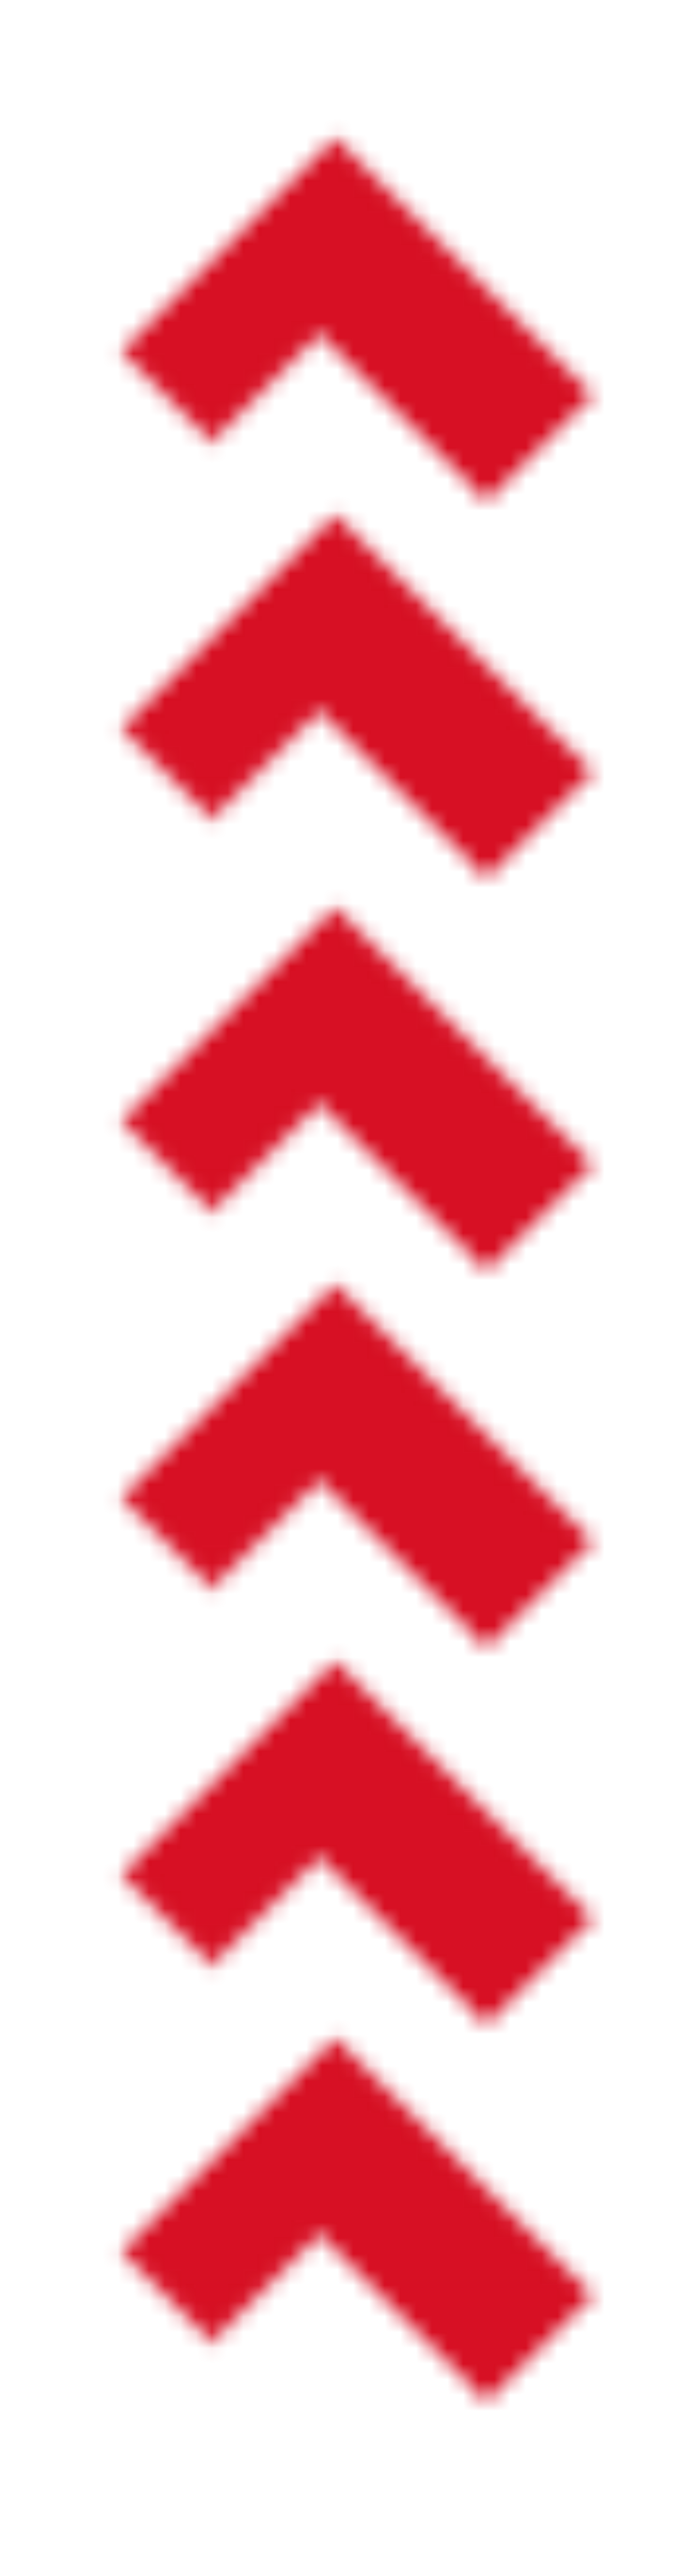
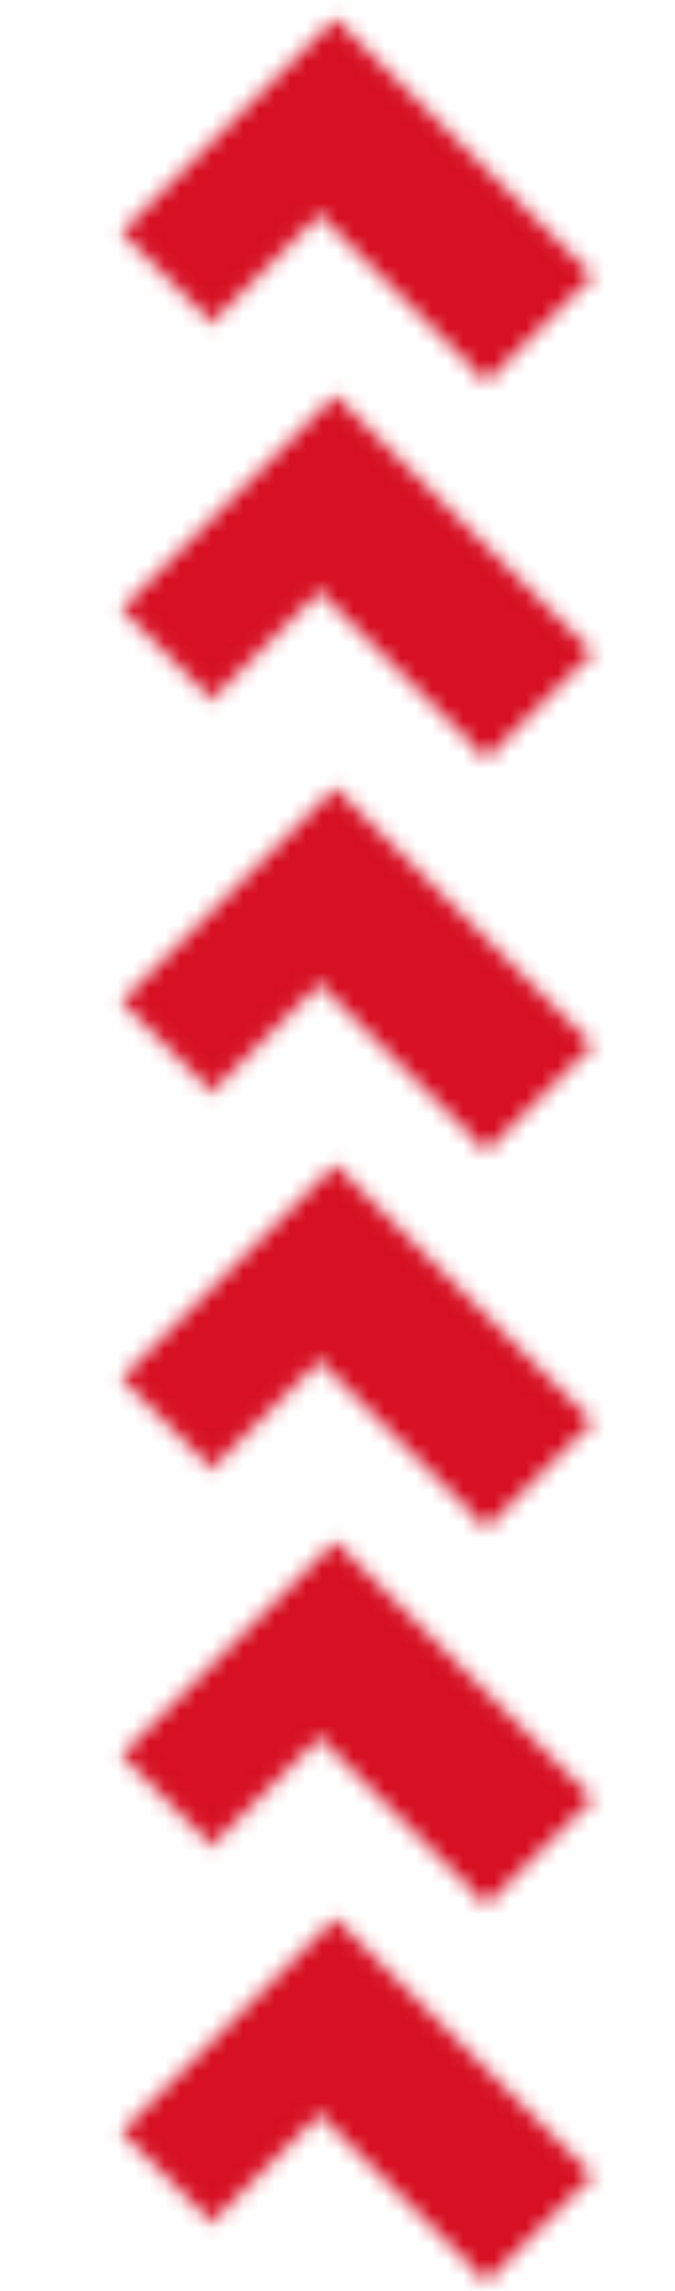
Actualizacion del Codigo agregando SUIT CSS y ajustando secciones

diff --git a/css/style.css b/css/style.css
@@ -1,67 +1,122 @@
 @import url('https://fonts.googleapis.com/css2?family=Montserrat:ital,wght@0,100..900;1,100..900&display=swap');
 @import url('https://fonts.googleapis.com/css2?family=Fira+Mono:wght@400;500;700&display=swap');
+:root{
+    --color-grisOscuro:#2E2D2D;
+    --color-negro:#000;
+    --color-blanco:#fff;
+    --color-rojo: #D71024;
+    --color-grisClaro:#D9D9D9;
+    --font-primary: "Montserrat", sans-serif;
+    --font-secondary: "Fira Mono", monospace;
+}
 body{
-    margin: 0;
-    padding: 0;
-    box-sizing: border-box;
     display: flex;
     flex-direction: column;
     font-family:"Montserrat", sans-serif;
     color: #fff;
     font-size: 15px;
 }
-.h1{
-    font-family: "Fira Mono", monospace;
-    font-weight: 700;
-    font-style: normal;
-    color: #000;
-    font-size: 2em;
-}
-.parrafo{
-    font-family:"Montserrat", sans-serif;
-    font-weight: 400;
-    font-style: normal;
-}
-.link{
-    
-}
-.header{
-    background-color: aqua;
+/*Aqui inicia el header*/
+.Header{
     position: fixed;
     width: 100%;
+    padding: 20px 0;
 }
-.navbar__ul{
+.Header-nav{
+    
+}
+.Header-menu{
     display: flex;
     flex-direction: row;
     flex-wrap: wrap;
-    list-style: none;
-    gap: 20px;
+    gap: 0 30px;
 }
-.navbar__ul__link{
+.Header-li{
+    list-style: none;
+    
+}
+.Header-link{
+    text-decoration: none;
+    color: var(--color-blanco);
+    cursor: pointer;
+}
+.Header-link--isActive, .Header-link:hover{
+    color: var(--color-rojo);
+    font-weight: 800;
+    transition: color 0.3s ease;
+}
+.Header-link--isActive::after{
+    content: "   ______________";
+    font-family: Arial, Helvetica, sans-serif;
+    position: relative;
+    top: -5px;
+    transition: color 4s ease-out;
+}
+/*Aquí Termina el header*/
+/*Aqui creo los elementos que flotan como las flechas y los cuadros rojos*/
+.Float{
+    position: absolute;
+}
+.Float-flecha--izq{
+    width: 30px;
+    height: 120px;
+    top: 30%;
+    left: 5%;
+    background-image: url(../images/flechas-icon-calop.webp);
+    background-size: contain;
 
 }
-.main{
-    background-color: #000;
+.Float-flecha--der{
+    width: 30px;
+    height: 240px;
+    bottom: -25%;
+    right: 5%;
+    background-image: url(../images/flechas-icon-calop.webp);
+    background-size: contain;
+}
+.Float-minBox--center{
+    width: 10%;
+    height: 10vh;
+    background-color: #d7102477;
+    top: 50%;
+    left: 50%;
+    translate:-50%;
+}
+.Float-bigBox--center{
+    width: 40%;
+    height: 10vh;
+    background-color: #d7102477;
+    bottom: -5%;
+    left: 50%;
+    translate:-50%;
+}
+/*Aquí inicia el Main*/
+.Main{
+    background-color: var(--color-blanco);
     display: flex;
     flex-direction: column;
     width: 100%;
 }
-.main .main__seccion{
+.Seccion{
     display: flex;
-    flex-direction: row;
-    flex-wrap: wrap;
+    flex-direction: column;
     height: 100vh;
+    
 }
-.main .main__seccion--gray{
-    background-color: #2E2D2D;
+.Seccion-2colum{
+   flex-direction: row;
+   align-items: stretch;
 }
-.main .main__seccion--white{
-    background-color: #fff;
+.Seccion--bgWhite{
+    background-color: var(--color-blanco);
 }
-.main .main__seccion--whitegray{
-    background-color: #D9D9D9;
+.Seccion--bgGray{
+    background-color: var(--color-grisOscuro);
 }
-.main__seccion .section__colum{
+.Seccion--bgWhitegray{
+    background-color: var(--color-grisClaro);
+}
+.Section-contentColumn{
     flex: 1 0;
     display: flex;
     flex-direction: column;
@@ -69,9 +124,28 @@ body{
     justify-content: center;
     padding: 10%;
 }
-.main__seccion .section__colum--left{
-    background-color:#2E2D2D ;
+.Section-contentColumn .Section-img{
+    width: 100%;
 }
-.main__seccion .section__colum--right{
-    background-color: #D9D9D9;
+
+.Section-h1{
+    font-family: var(--font-secondary);
+    font-weight: 700;
+    font-style: normal;
+    color: var(--color-negro);
+    font-size: 2rem;
 }
+
+.Section-parrafo{
+    font-family:var(--font-primary);
+    font-weight: 400;
+    font-style: normal;
+    color: var(--color-negro);
+    font-size: 1rem;
+}
+.Section-parrafo--blanco{
+    color: var(--color-blanco);
+
+}
+
+

diff --git a/index.html b/index.html
@@ -12,39 +12,48 @@
     <link rel="stylesheet" href="js/project.js">
 </head>
 <body>
-    <header class="header">
-        <nav class="navbar">
-            <ul class="navbar__ul">
-                <li><a class="navbar__ul__link" href="#">Nosotros</a></li>
-                <li><a class="navbar__ul__link" href="#">Servicios</a></li>
-                <li><a class="navbar__ul__link" href="#">Portafolio</a></li>
-                <li><a class="navbar__ul__link" href="#">Contactanos</a></li>
+    <header class="Header">
+        <nav class="Header-nav">
+            
+            <ul class="Header-menu">
+                <li class="Header-li"><a class="Header-link Header-link--isActive" href="#">Nosotros</a></li>
+                <li class="Header-li"><a class="Header-link" href="#">Servicios</a></li>
+                <li class="Header-li"><a class="Header-link" href="#">Portafolio</a></li>
+                <li class="Header-li"><a class="Header-link" href="#">Contactanos</a></li>
             </ul>
         </nav>
+        
     </header>
-    <main class="main">
-        <section class="main__seccion">
-            <div class="section__colum section__colum--left">
-                <img src="images/calopstudio-logo-big.webp" alt="">
+    <main class="Main">
+        <section class="Seccion Seccion-2colum Seccion--bgWhite">
+            <div class="Float Float-flecha--izq"></div>
+            <div class="Seccion--bgGray Section-contentColumn">
+                <img class="Section-img" src="images/calopstudio-logo-big.webp" alt="">
+                <p class="Section-parrafo--blanco">
+                Desbloquendo la Creatividad 
+                </p>
             </div>
-            <div class="section__colum section__colum--right">
-                <H1 class="h1">Lorem ipsum dolor</H1>
-                <p class="parrafo">Lorem ipsum dolor sit amet consectetur adipisicing elit. Nobis quam quia quis voluptates a soluta sint, eius eveniet laboriosam, adipisci repellat odit libero sed id quaerat voluptatum, labore ratione vel!</p>
+            <div class="Float Float-minBox--center"></div>
+            <div class="Seccion--bgWhitegray Section-contentColumn">
+                <H1 class="Section-h1">Lorem ipsum dolor</H1>
+                <p class="Section-parrafo">Lorem ipsum dolor sit amet consectetur adipisicing elit. Nobis quam quia quis voluptates a soluta sint, eius eveniet laboriosam, adipisci repellat odit libero sed id quaerat voluptatum, labore ratione vel!</p>
             </div>
+            <div class="Float Float-bigBox--center"></div>
+            <div class="Float Float-flecha--der"></div>
         </section>
-        <section class="main__seccion main__seccion--white">
+        <section class="Seccion Seccion--bgWhite">
             
         </section>
-        <section class="main__seccion main__seccion--gray">
+        <section class="Seccion Seccion--bgGray">
             
         </section>
-        <section class="main__seccion main__seccion--white">
+        <section class="Seccion Seccion--bgWhite">
             
         </section>
-        <section class="main__seccion main__seccion--whitegray">
+        <section class="Seccion Seccion--bgWhitegray">
             
         </section>
-        <section class="main__seccion main__seccion--gray">
+        <section class="Seccion Seccion--bgWray">
             
         </section>
     </main>
